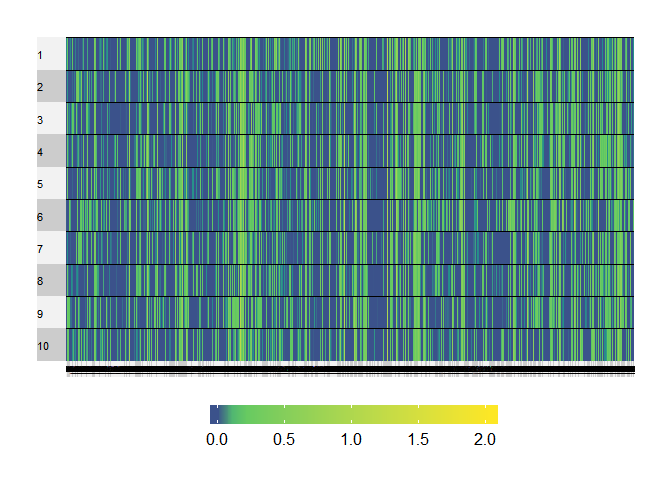
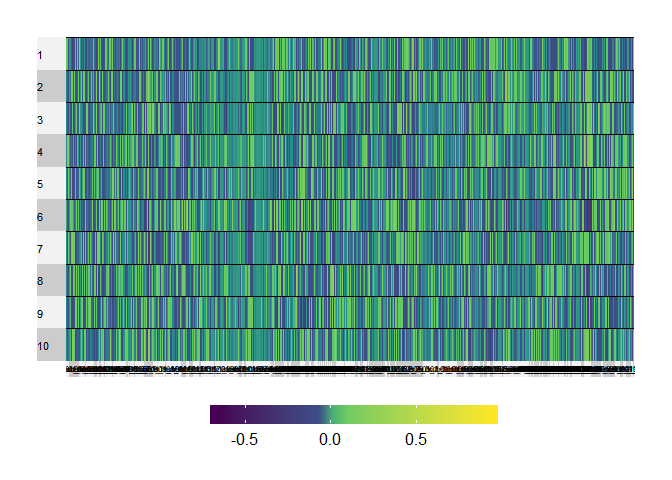
Update MuSuDemo for one subject

diff --git a/res_MuSu/MuSuDemo_Cent_x_Sess.md b/res_MuSu/MuSuDemo_Cent_x_Sess.md
@@ -33,12 +33,6 @@ dim(cubes$rcube)
 
 ![](MuSuDemo_Cent_x_Sess_files/figure-gfm/gt_heatmap_bw-1.png)<!-- -->
 
-## Centered across sessions (rows)
-
-``` r
-gt_centXsess <- expo.scale(gt, scale = FALSE)
-```
-
 ## SVD
 
 The data are transposed so that the rows are now different edges of
@@ -47,24 +41,21 @@ centered across sessions (each edge is centered).
 
 ``` r
 # Use subject_edge_label as column names
-colnames(gt_centXsess) <- labels$subjects_edge_label
-# Transpose for epPCA
-t_gt_centXsess <- t(gt_centXsess)
+colnames(gt.sub1_centXsess) <- labels.sub1$subjects_edge_label
 # SVD on the rectangular data ------------------------
-pca.res.subj <- epPCA(t_gt_centXsess,scale = FALSE, center = FALSE, DESIGN = labels$subjects_edge_label, make_design_nominal = TRUE, graphs = FALSE)
+pca.res.subj <- epPCA(t(gt.sub1_centXsess),scale = FALSE, center = FALSE, DESIGN = labels.sub1$subjects_edge_label, make_design_nominal = TRUE, graphs = FALSE)
 # check dimension
-dim(t_gt_centXsess)
+dim(t(gt.sub1_centXsess))
 ```
 
-    ## [1] 533252     10
+    ## [1] 180901     10
 
 ### Check the contribution of each variable
 
 ``` r
-#--- get the contribution of each component
 cI <- pca.res.subj$ExPosition.Data$ci
 #--- get the sum of contribution for each edge
-c_edge <- labels$subjects_edge_label %>% as.matrix %>% makeNominalData %>% t %>% "%*%"(cI)
+c_edge <- labels.sub1$subjects_edge_label %>% as.matrix %>% makeNominalData %>% t %>% "%*%"(cI)
 rownames(c_edge) <- sub(".","",rownames(c_edge))
 #--- compute the sums of squares of each variable for each component
 absCtrEdg <- as.matrix(c_edge) %*% diag(pca.res.subj$ExPosition.Data$eigs)
@@ -72,12 +63,14 @@ absCtrEdg <- as.matrix(c_edge) %*% diag(pca.res.subj$ExPosition.Data$eigs)
 edgCtr12 <- (absCtrEdg[,1] + absCtrEdg[,2])/(pca.res.subj$ExPosition.Data$eigs[1] + pca.res.subj$ExPosition.Data$eigs[2])
 edgCtr23 <- (absCtrEdg[,3] + absCtrEdg[,2])/(pca.res.subj$ExPosition.Data$eigs[2] + pca.res.subj$ExPosition.Data$eigs[3])
 #--- the important variables are the ones that contribute more than or equal to the average
-importantEdg <- (edgCtr12 >= 1/length(edgCtr12))
-importantEdg <- (edgCtr23 >= 1/length(edgCtr23))
+importantEdg12 <- (edgCtr12 >= 1/length(edgCtr12))
+importantEdg23 <- (edgCtr23 >= 1/length(edgCtr23))
+importantEdg1 <- (cI[,1] >= 1/length(cI[,1]))
+importantEdg2 <- (cI[,2] >= 1/length(cI[,2]))
 #--- color for networks
 col4ImportantEdg <- unique(pca.res.subj$Plotting.Data$fi.col) # get colors
 col4NS <- 'gray90' # set color for not significant edges to gray
-col4ImportantEdg[!importantEdg] <- col4NS # replace them in the color vector
+col4ImportantEdg[!importantEdg12] <- col4NS # replace them in the color vector
 ```
 
 ## Inference
@@ -87,20 +80,20 @@ for each edge (or edge type) that we are interested in.
 
 ``` r
 # Compute means of factor scores for different edges----
-mean.fi <- getMeans(pca.res.subj$ExPosition.Data$fi, labels$subjects_edge_label) # with t(gt)
+#mean.fi <- getMeans(pca.res.subj$ExPosition.Data$fi, labels.sub1$subjects_edge_label) # with t(gt)
 
-BootCube.Comm <- Boot4Mean(pca.res.subj$ExPosition.Data$fi,
-                           design = labels$subjects_edge_label,
-                           niter = 100,
-                           suppressProgressBar = TRUE)
+#BootCube.Comm <- Boot4Mean(pca.res.subj$ExPosition.Data$fi,
+#                           design = labels.sub1$subjects_edge_label,
+#                           niter = 100,
+#                           suppressProgressBar = TRUE)
 
 
 # Compute means of factor scores for different types of edges
-mean.fi.bw <- getMeans(pca.res.subj$ExPosition.Data$fi, labels$subjects_wb) # with t(gt)
-BootCube.Comm.bw <- Boot4Mean(pca.res.subj$ExPosition.Data$fi,
-                           design = labels$subjects_wb,
-                           niter = 100,
-                           suppressProgressBar = TRUE)
+#mean.fi.bw <- getMeans(pca.res.subj$ExPosition.Data$fi, labels.sub1$subjects_wb) # with t(gt)
+#BootCube.Comm.bw <- Boot4Mean(pca.res.subj$ExPosition.Data$fi,
+#                           design = labels.sub1$subjects_wb,
+#                           niter = 100,
+#                           suppressProgressBar = TRUE)
 ```
 
 ## Plot
@@ -108,3 +101,12 @@ BootCube.Comm.bw <- Boot4Mean(pca.res.subj$ExPosition.Data$fi,
 First, we plot the 10 sessions
 
 ![](MuSuDemo_Cent_x_Sess_files/figure-gfm/plot_fj-1.png)<!-- -->
+
+Next, we plot each edges
+
+![](MuSuDemo_Cent_x_Sess_files/figure-gfm/grid_heat_fi-1.png)<!-- -->
+
+If we plot only the edges that significantly contribute to the
+component
+
+![](MuSuDemo_Cent_x_Sess_files/figure-gfm/grid_heat_sig_fi-1.png)<!-- -->
